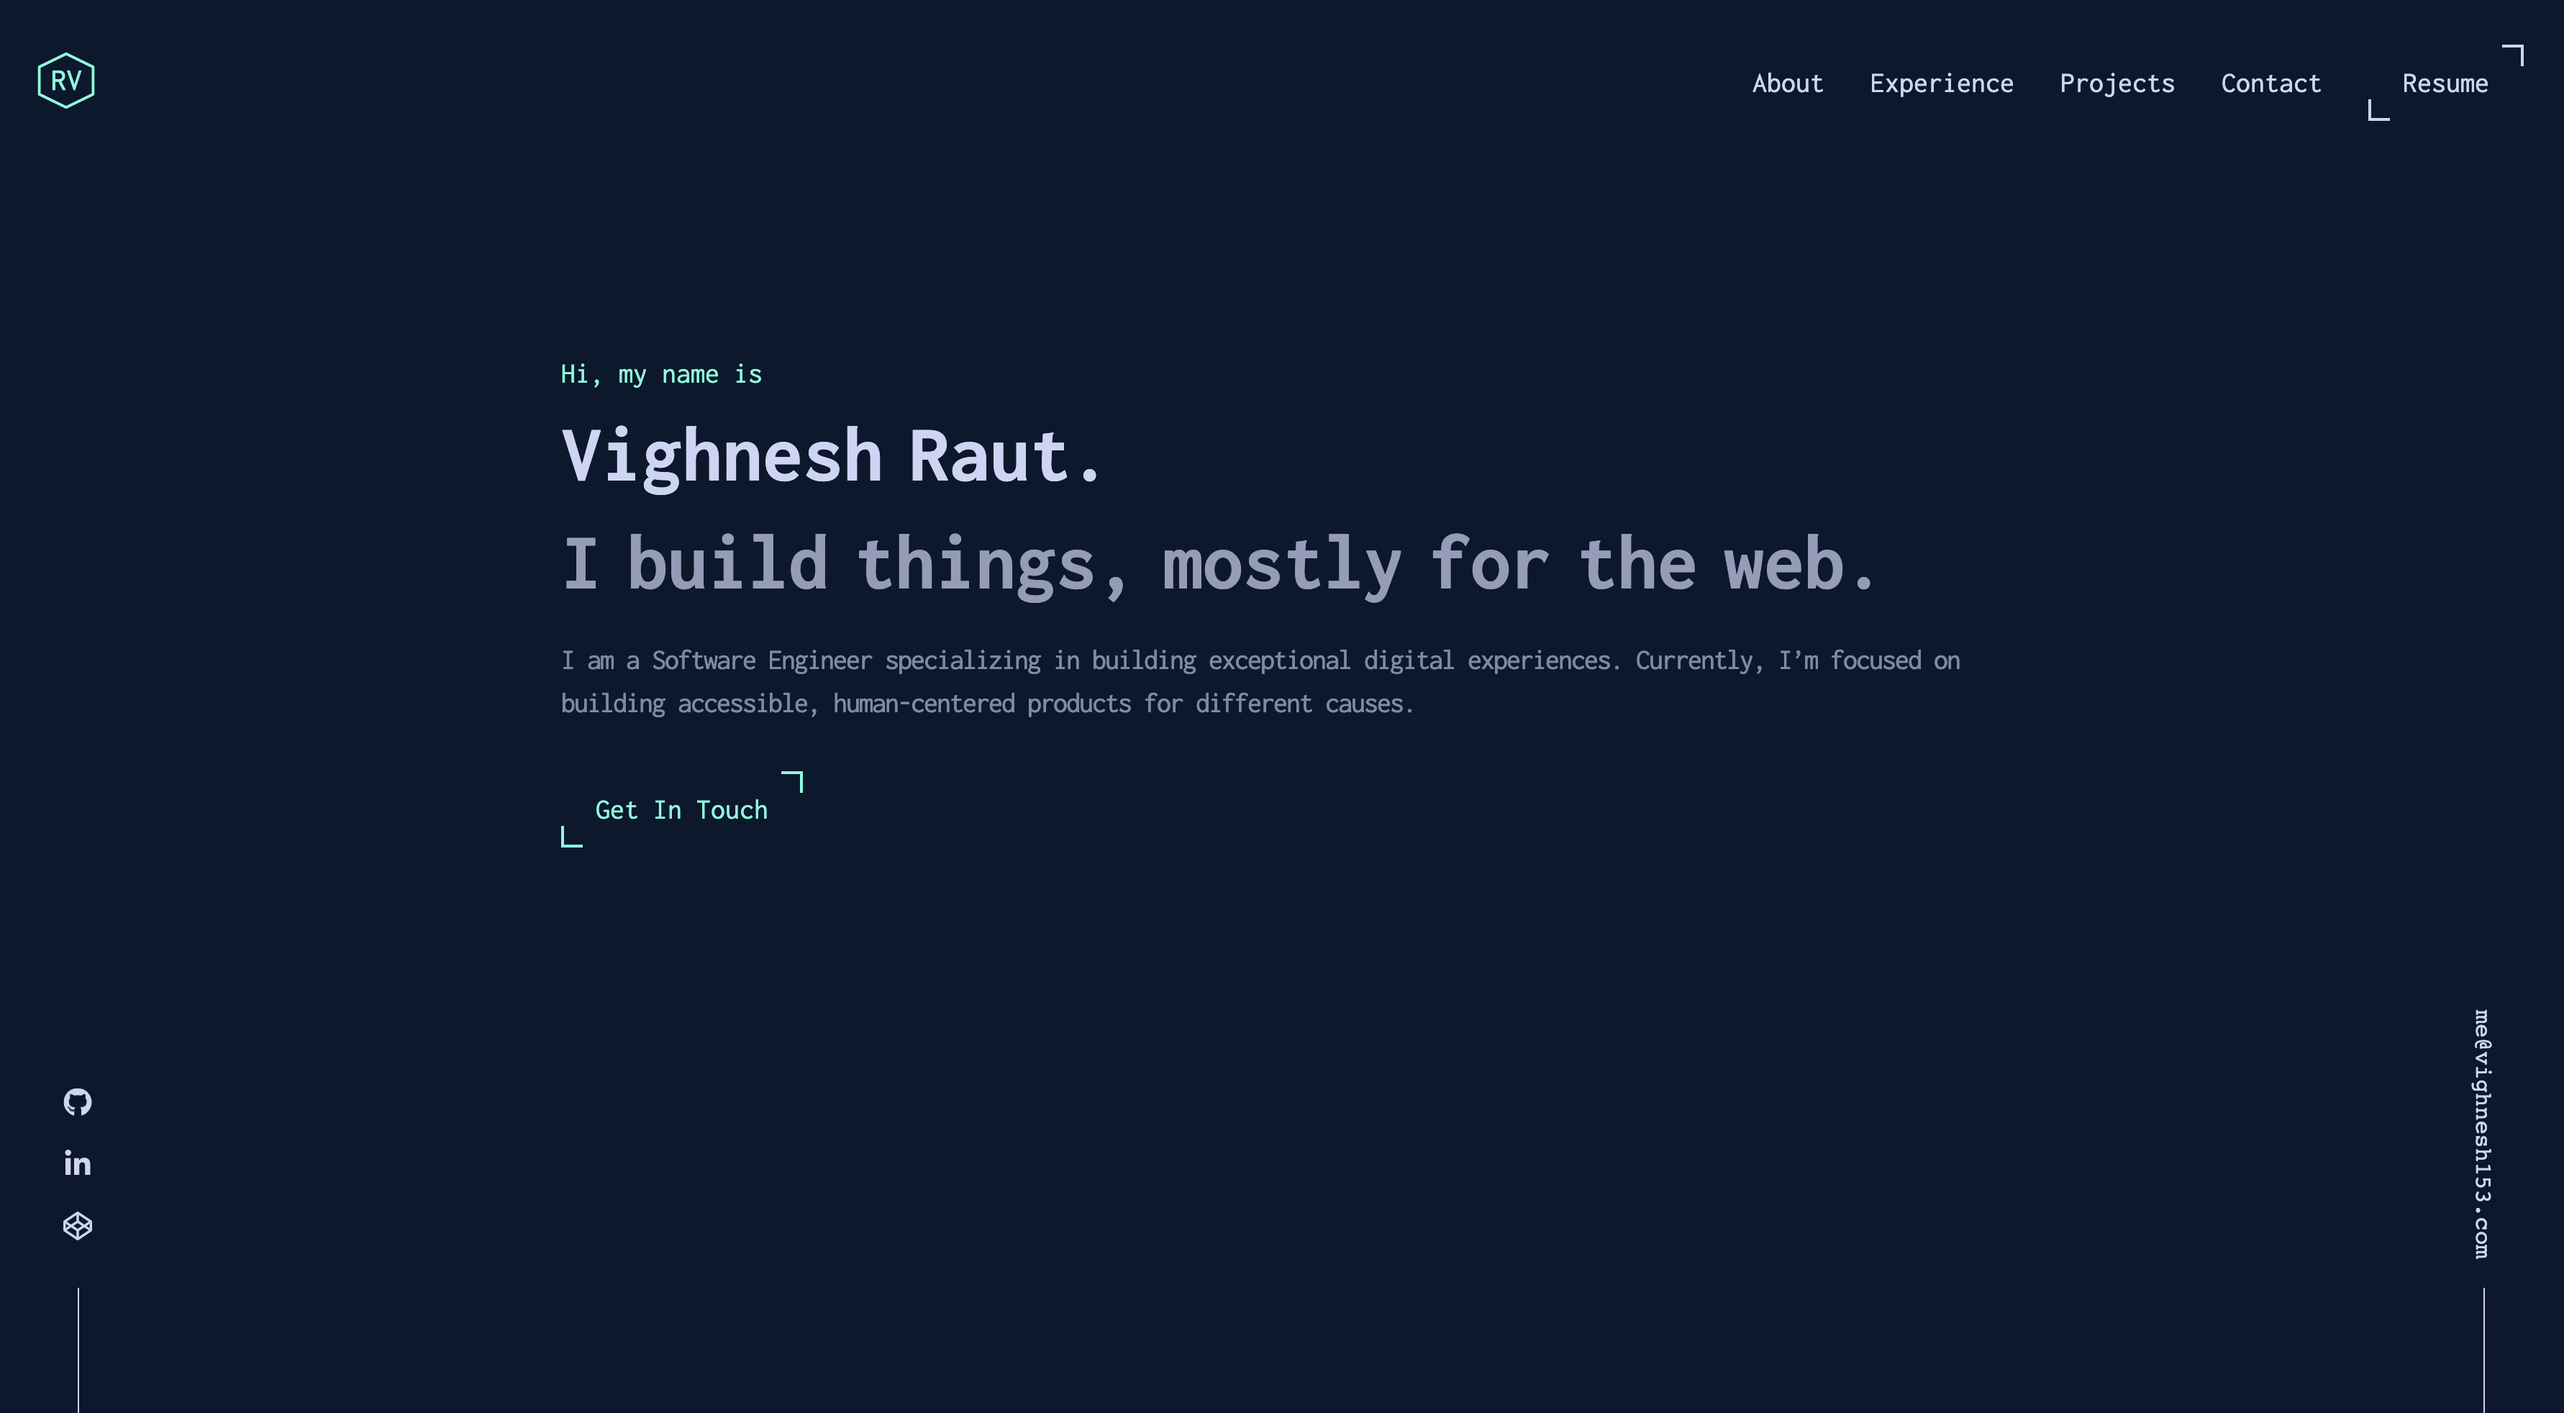
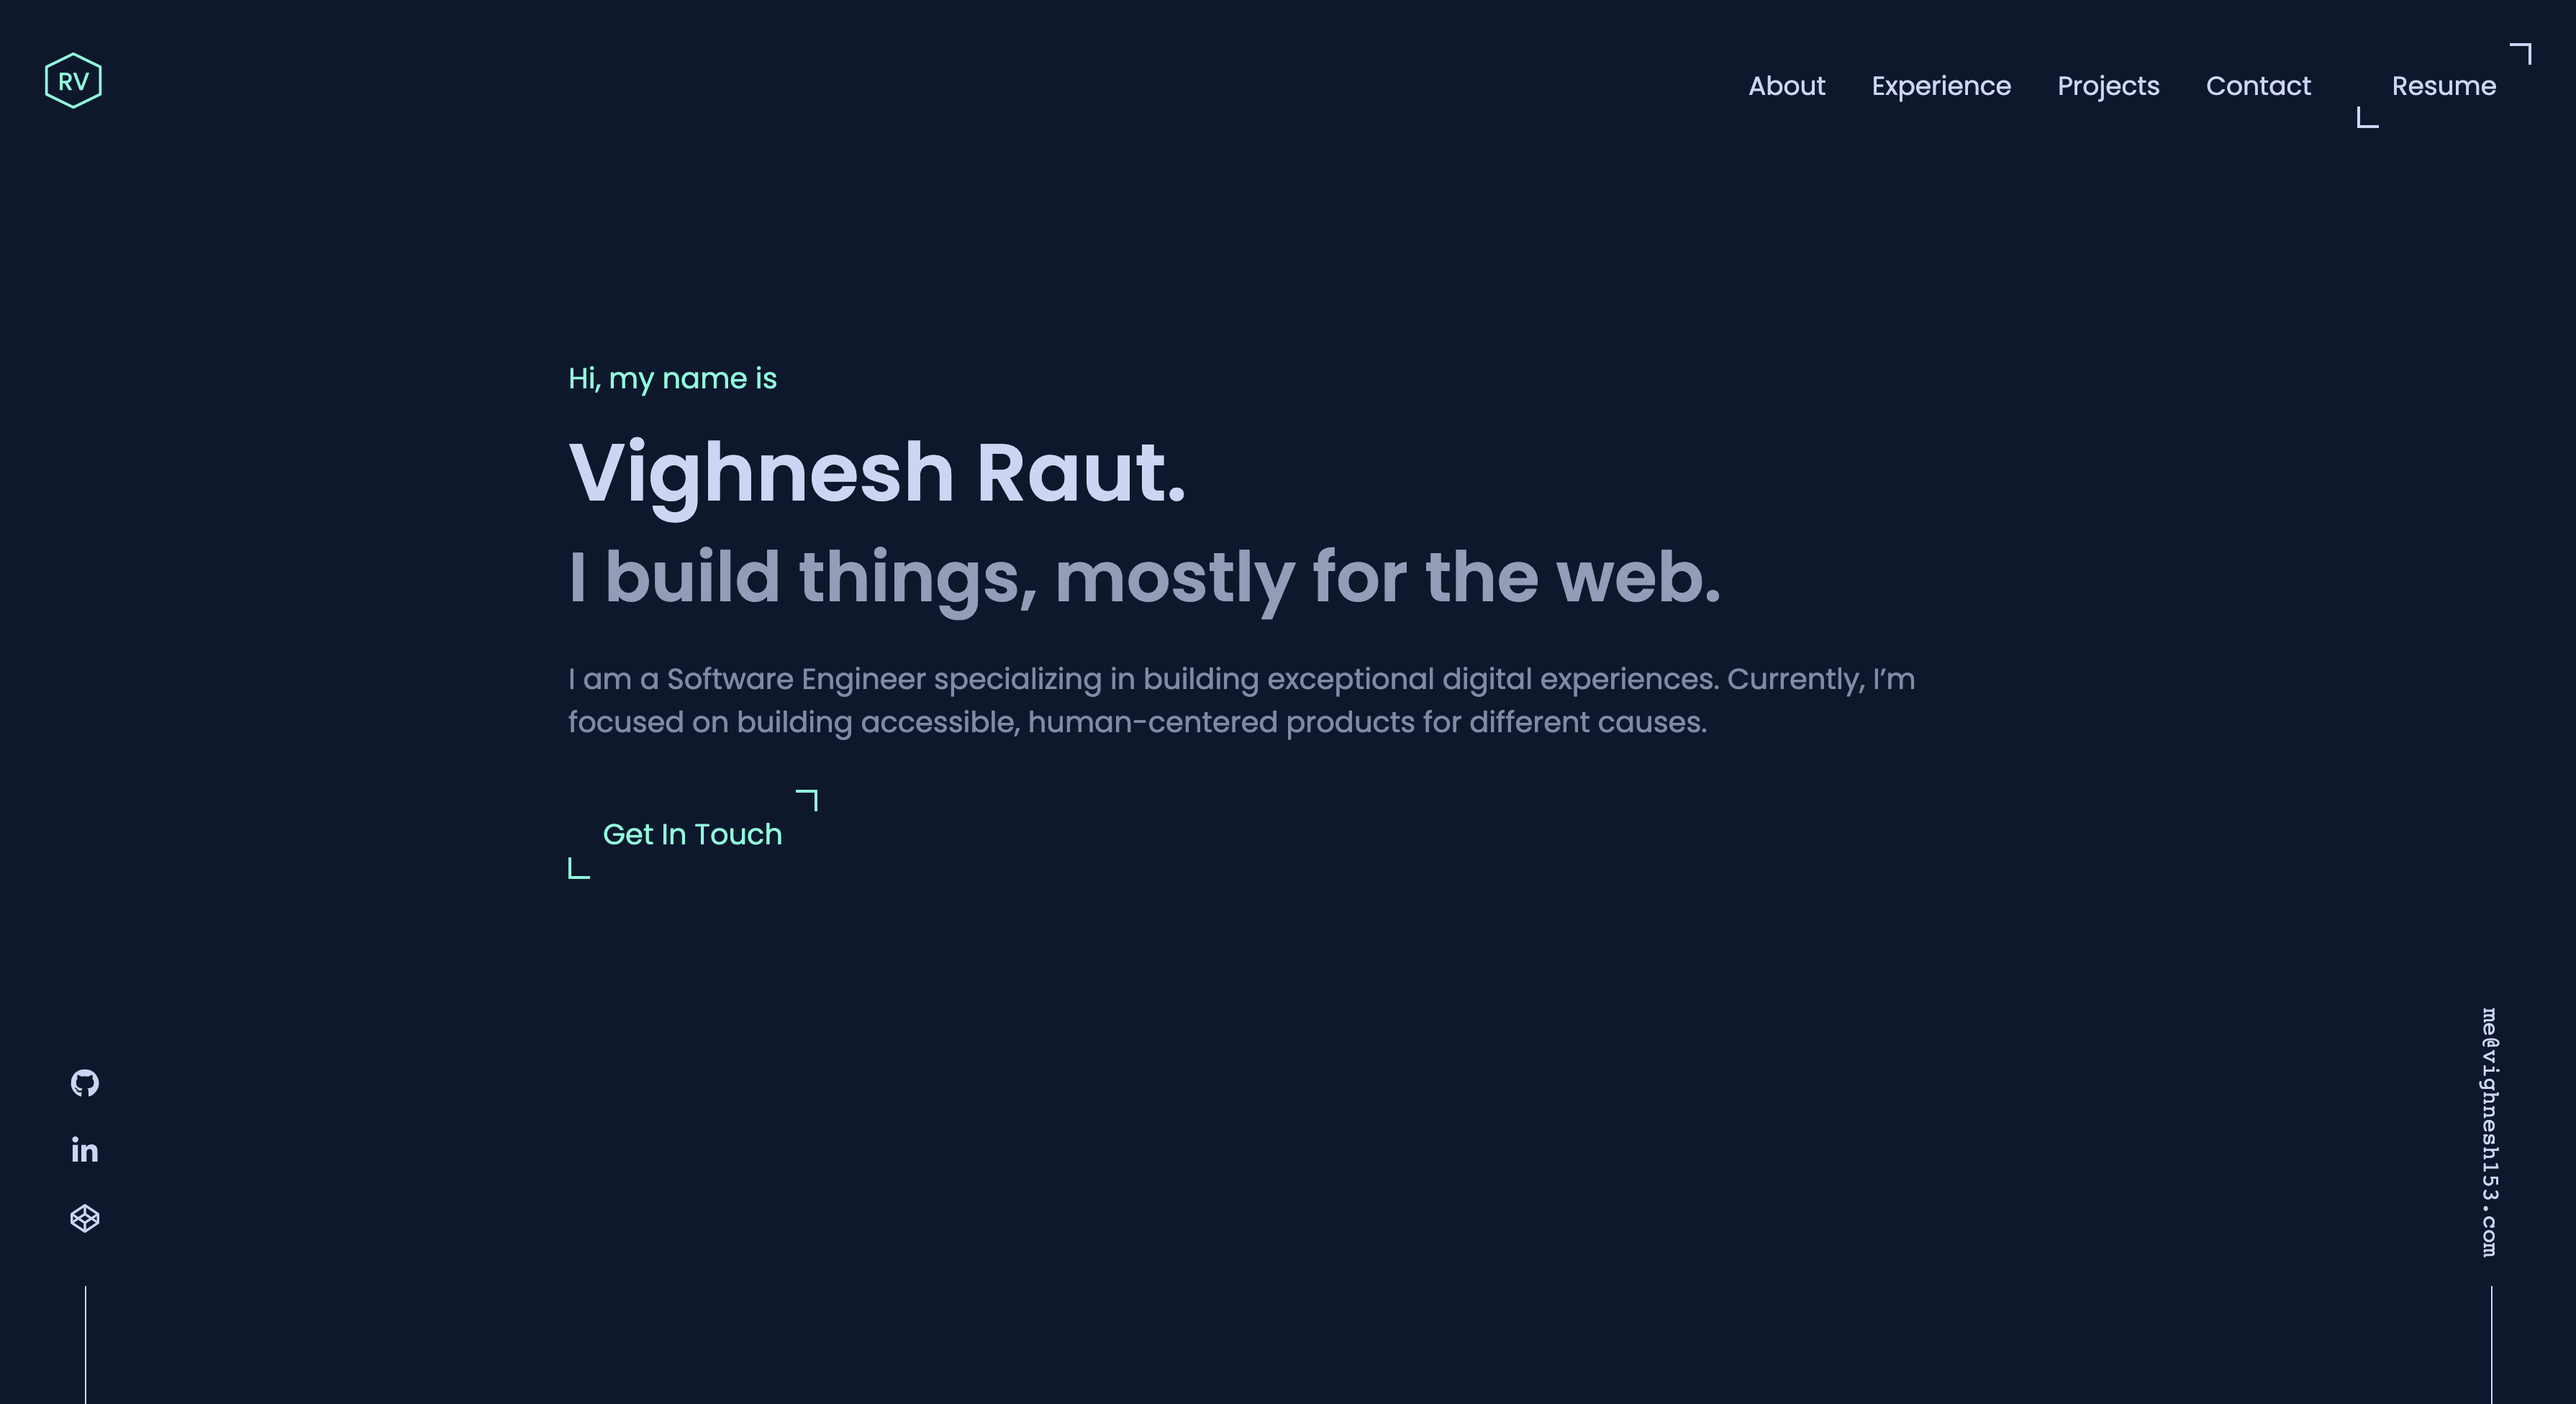
style: update styles and website-snap

diff --git a/styles/theme.scss b/styles/theme.scss
@@ -19,9 +19,13 @@
   --color-primary-light-h: 218;
   --color-primary-light-s: 58%;
   --color-primary-light-l: 16%;
+  --color-primary-light-l-2: 25%;
   --color-primary-light: var(--color-primary-light-h),
     var(--color-primary-light-s), var(--color-primary-light-l);
+  --color-primary-light-2: var(--color-primary-light-h),
+    var(--color-primary-light-s), var(--color-primary-light-l-2);
   --color-primary-light-demo: hsl(218, 58%, 16%);
+  --color-primary-light-2-demo: hsl(218, 58%, 25%);
 
   // Primary dark
   --color-primary-dark-h: 218;

diff --git a/styles/globals.scss b/styles/globals.scss
@@ -107,6 +107,6 @@ a {
 }
 
 ::selection {
-  background-color: hsla(var(--color-primary-light));
+  background-color: hsla(var(--color-primary-light-2));
   color: hsla(var(--color-secondary));
 }

diff --git a/styles/components/Introduction.scss b/styles/components/Introduction.scss
@@ -20,7 +20,7 @@
     color: hsla(var(--major-text-color), 70%);
     font-size: var(--t-1200);
     font-weight: 600;
-    line-height: 1.1;
+    line-height: 1.3;
   }
 
   .description {
